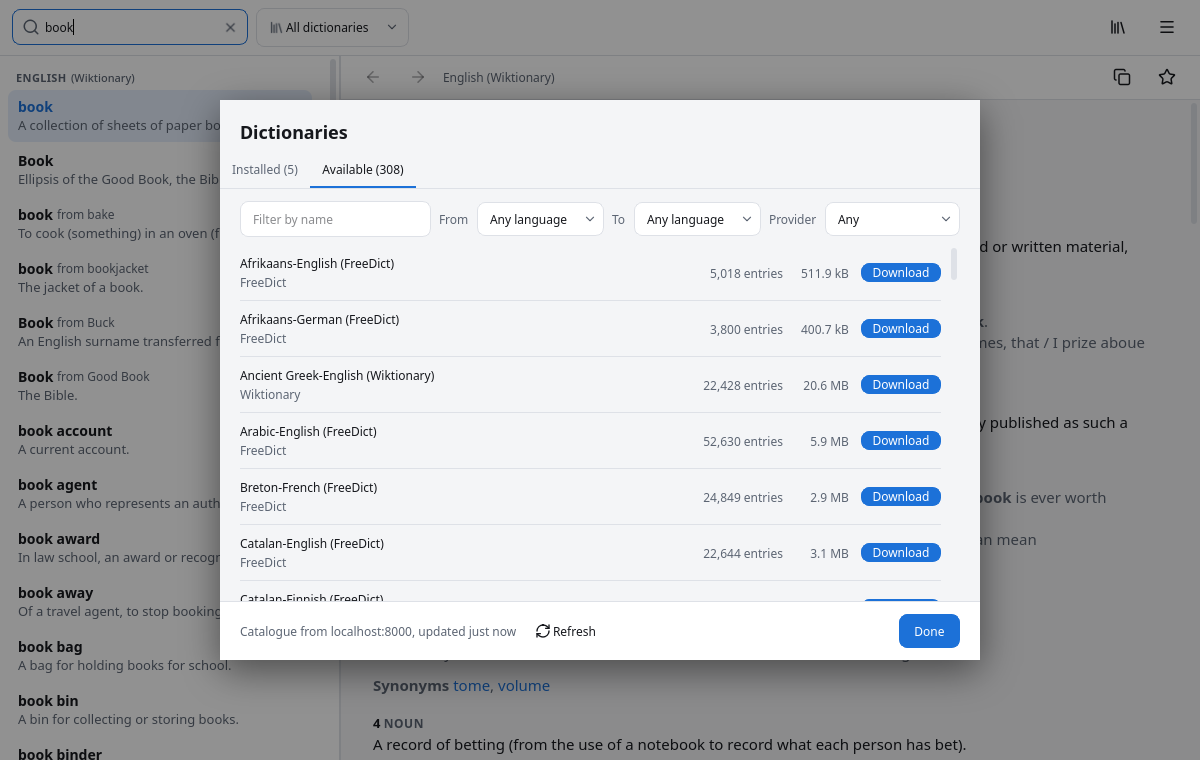
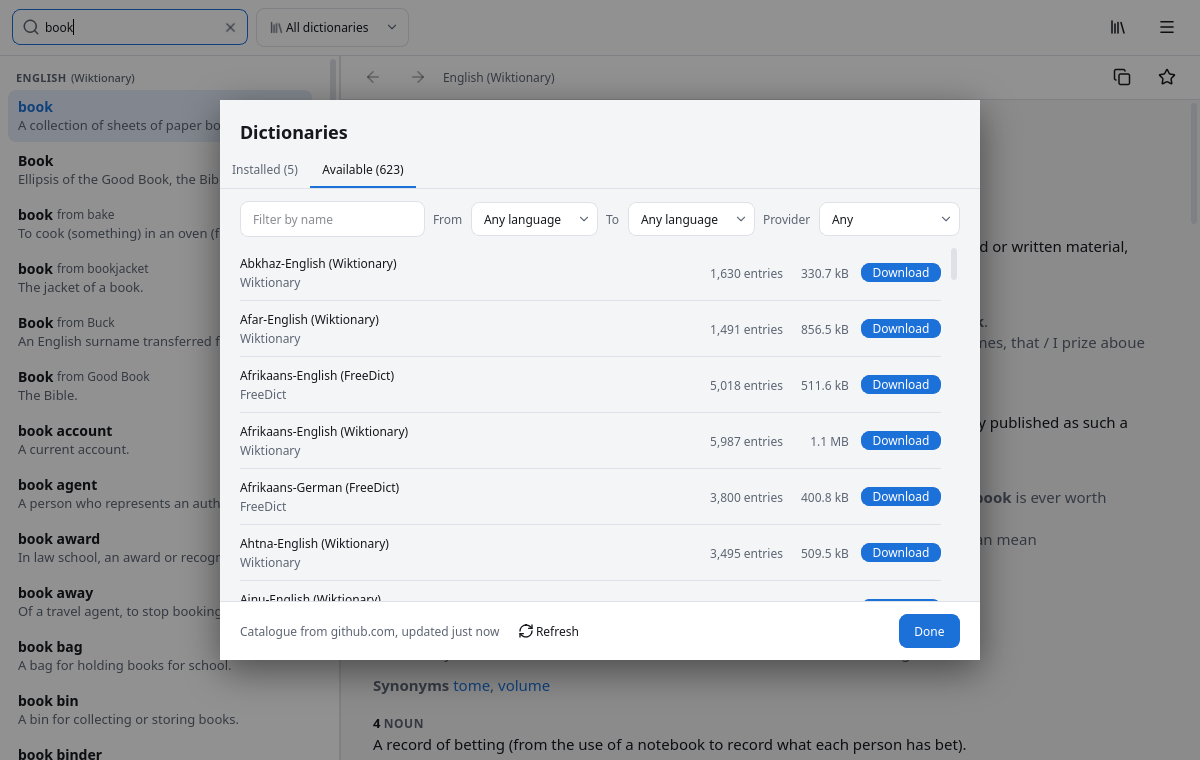
scripts, docs: the catalogue screenshot shows the published catalogue; the sheet grab waits for it

diff --git a/app/src/app/debug_hooks.cpp b/app/src/app/debug_hooks.cpp
@@ -16,8 +16,9 @@ using namespace Qt::StringLiterals;
 namespace omnidict::app {
 
 namespace {
-constexpr int kSettleMs = 400;    // let the entry lay out before the grab
-constexpr int kGiveUpMs = 15'000; // quit even if no entry ever shows
+constexpr int kSettleMs = 400;         // let the entry lay out before the grab
+constexpr int kGiveUpMs = 15'000;      // quit even if no entry ever shows
+constexpr int kCatalogSettleMs = 1500; // the Available tab lays out hundreds of rows
 constexpr int kGrabFailedExit = 3;
 
 /// OMNIDICT_DEBUG_INSTALL: the whole install path against the real catalogue.
@@ -58,8 +59,10 @@ void installWhenListed(ui::MainWindow& window, services::DictionaryManager& mana
 }
 
 /// OMNIDICT_DEBUG_OPEN names a sheet: grab it from inside its own modal loop, then quit.
-/// True when it named one.
-bool grabSheet(ui::MainWindow& window, const QString& sheet, const QString& grabPath)
+/// A catalogue still being read (the Dictionaries sheet on a fresh profile) is waited for,
+/// so the grab shows the list rather than "Refreshing...". True when it named a sheet.
+bool grabSheet(ui::MainWindow& window, services::DictionaryManager& manager, const QString& sheet,
+               const QString& grabPath)
 {
     using Open = std::function<void(ui::MainWindow&)>;
     const QHash<QString, Open> sheets = {
@@ -75,13 +78,26 @@ bool grabSheet(ui::MainWindow& window, const QString& sheet, const QString& grab
         return false;
     }
     const Open open = sheets.value(sheet);
+    const auto grab = [grabPath] {
+        QWidget* dialog = QApplication::activeModalWidget();
+        const bool saved = dialog != nullptr && (grabPath.isEmpty() || dialog->grab().save(grabPath));
+        QCoreApplication::exit(saved ? 0 : kGrabFailedExit);
+    };
     QObject::connect(
         &window, &ui::MainWindow::libraryReady, &window,
-        [&window, grabPath, open] {
-            QTimer::singleShot(kSettleMs, &window, [grabPath] {
-                QWidget* dialog = QApplication::activeModalWidget();
-                const bool saved = dialog != nullptr && (grabPath.isEmpty() || dialog->grab().save(grabPath));
-                QCoreApplication::exit(saved ? 0 : kGrabFailedExit);
+        [&window, &manager, grab, open] {
+            QTimer::singleShot(kSettleMs, &window, [&window, &manager, grab] {
+                if (!manager.isRefreshingCatalog()) {
+                    grab();
+                    return;
+                }
+                const auto settleThenGrab = [&window, grab] {
+                    QTimer::singleShot(kCatalogSettleMs, &window, grab);
+                };
+                QObject::connect(&manager, &services::DictionaryManager::catalogChanged, &window,
+                                 settleThenGrab, Qt::SingleShotConnection);
+                QObject::connect(&manager, &services::DictionaryManager::catalogFailed, &window,
+                                 settleThenGrab, Qt::SingleShotConnection);
             });
             open(window);
         },
@@ -132,7 +148,8 @@ void installDebugHooks(ui::MainWindow& window, services::DictionaryManager& mana
     }
 
     const QString grabPath = qEnvironmentVariable("OMNIDICT_DEBUG_GRAB");
-    if (grabSheet(window, qEnvironmentVariable("OMNIDICT_DEBUG_OPEN"), grabPath) || grabPath.isEmpty()) {
+    if (grabSheet(window, manager, qEnvironmentVariable("OMNIDICT_DEBUG_OPEN"), grabPath) ||
+        grabPath.isEmpty()) {
         return;
     }
     grabWindow(window, grabPath, !query.isEmpty());

diff --git a/DOCS/PROGRESS.md b/DOCS/PROGRESS.md
@@ -14,6 +14,23 @@ Newest first. One entry per working session.
 | M5 Packaging | done locally: desktop file, metainfo, snap, Flatpak manifest, snap and release workflows, store screenshots (ADR-017); AppImage deferred; nothing runs until the repository exists |
 | M6 Web app | todo |
 
+## 2026-09-29 - Published catalogue, GitHub as the default
+
+- The owner made the repository public (free CI) and ran the dictionaries workflow: 623
+  dictionaries and catalog.json in the rolling release, 3.05 GB; checked entry by entry (schema
+  3, names and source links on all, release-asset URLs) and one download against its checksum.
+- Finnish was 490 MB (3.3 GB installed): 74% of its stored forms were possessive forms. The
+  owner chose to leave possessive forms out (DOCS/sources.md "Kaikki notes"); Finnish keeps 29
+  forms per entry instead of 133. The owner re-ran the workflow.
+- The app tested against the release from a scratch profile: HTTPS, GitHub's redirect and the
+  checksum all work (Sumerian, Kengdic installed); About shows the source links.
+- The default catalogue is now the rolling release (owner). A cached catalogue records its
+  address and is ignored when the address changes, so a switch never shows a stale list.
+- Store screenshot of the catalogue regenerated against the real catalogue; the sheet grab
+  hook waits for a catalogue still being read.
+- Measured: rebuilding the Available list of 623 rows takes about 140 ms, once per filter
+  keystroke; worth a short typing delay if it feels slow on older machines.
+
 ## 2026-09-28 - M5 packaging
 
 - Owner: AppImage deferred, snap name `omnidict`, links on github.com/keshavbhatt/omnidict.
